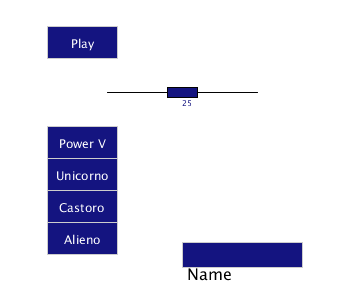
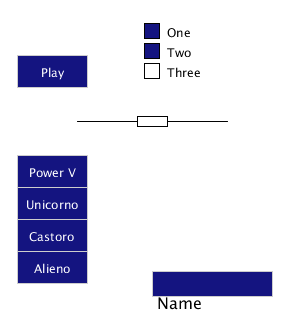
Add checkbox and minor fixes

diff --git a/README.md b/README.md
@@ -11,7 +11,7 @@ A simple and user-friendly GUI library for processing
 * [Dropdown](./JGUILib/JGUIDropdown.pde)
 * [Textfield](./JGUILib/JGUITextfield.pde)
 * [Slider](./JGUILib/JGUISlider.pde)
-* WIP checkbox
+* [Checkbox](./JGUILib/JGUICheckbox.pde)
 * WIP radiobutton
 
 ### How to use:
@@ -56,6 +56,7 @@ Now you can add to it all your customized components, for example:
       .setCallback(onSlideCallback);
   controller.add(sl);
 ```
+NOTE: all others examples for components can be found in [Main](./JGUILib/JGUILib.pde)
 
 Create a global callback for your buttons, binded as in the previous example.<br>
 There are two types of callback for different cases:
